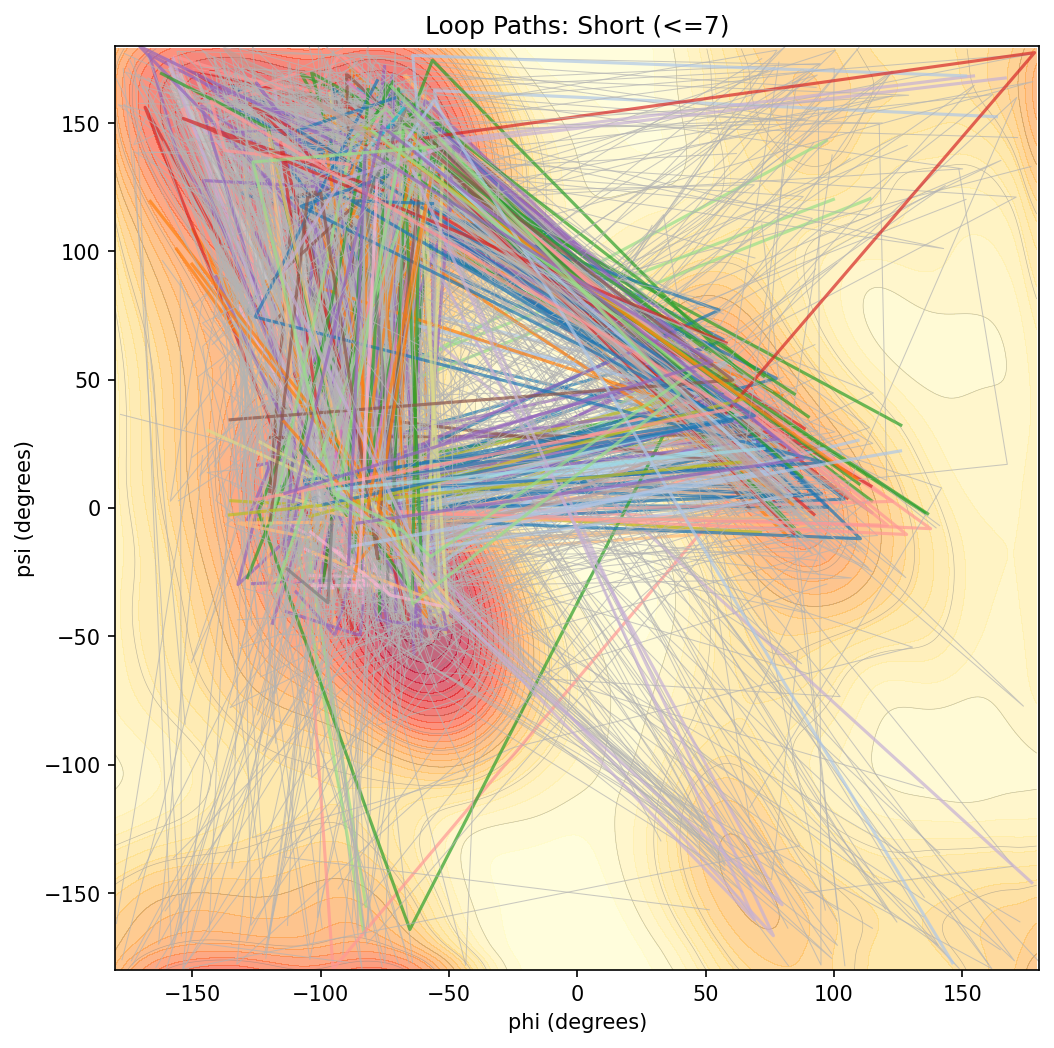
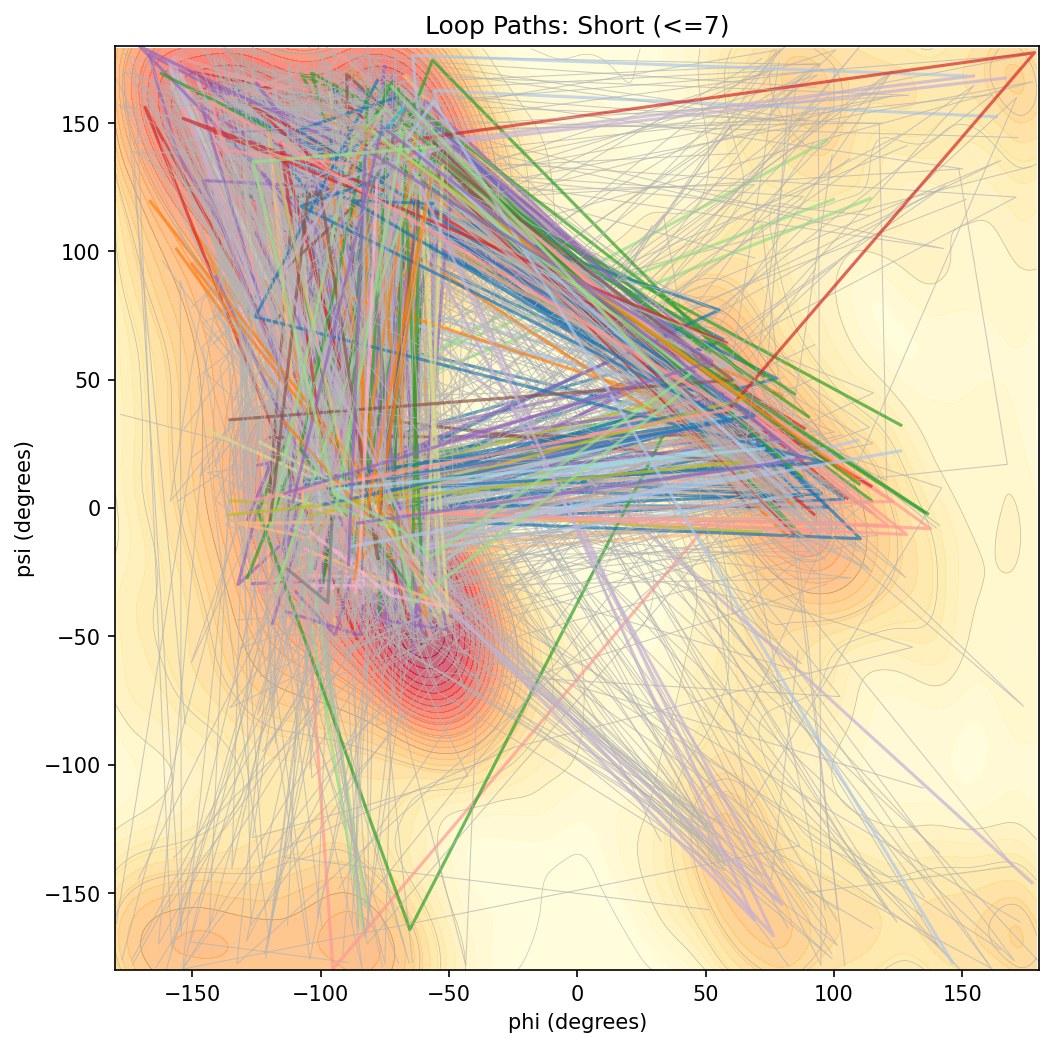
Re-run all pipelines with realistic W; add fold-class breakdown
Three analyses with the unsmoothed KDE superpotential:

1. Per-protein CV = 18.6% (235 filtered structures) — invariance holds

2. Fold-class breakdown (realistic W):
   all-alpha: 0.782  all-beta: 1.076  alpha/beta: 0.953  alpha+beta: 1.028
   Strong separation: all-alpha vs all-beta Cohen's d = -1.45
   Alpha helices are conformationally smooth; beta strands traverse
   more varied W terrain

3. Loop taxonomy re-run: 19 tight families (was 23 with extra smoothing)
   |dW| values larger and better separated with realistic W
   Classifier accuracy improved to 80.0% (was 76.9%)

https://claude.ai/code/session_01ChvQwJeR2m4uXnp1XPgmUH

diff --git a/output/loop_taxonomy_report.md b/output/loop_taxonomy_report.md
@@ -29,8 +29,8 @@
 
 | Family | N | |dW| mean | |dW| CV% | Path len mean | Path len CV% | Type | Directions |
 |--------|---|----------|---------|---------------|-------------|------|------------|
-| 0 | 5 | 0.405 | 71.5% | 23.531 | 2.2% | catch-all | alpha->beta:5 |
-| 1 | 3 | 1.452 | 47.9% | 28.412 | 0.7% | catch-all | alpha->beta:3 |
+| 0 | 5 | 0.409 | 73.6% | 23.531 | 2.2% | catch-all | alpha->beta:5 |
+| 1 | 3 | 1.375 | 53.6% | 28.412 | 0.7% | catch-all | alpha->beta:3 |
 
 ## Medium (8-10)
 
@@ -42,89 +42,89 @@
 
 | Family | N | |dW| mean | |dW| CV% | Path len mean | Path len CV% | Type | Directions |
 |--------|---|----------|---------|---------------|-------------|------|------------|
-| 0 | 3 | 1.154 | 59.8% | 13.544 | 5.0% | catch-all | alpha->beta:3 |
-| 1 | 3 | 0.943 | 10.0% | 12.408 | 2.3% | tight | beta->alpha:3 |
+| 0 | 3 | 1.250 | 38.7% | 13.544 | 5.0% | catch-all | alpha->beta:3 |
+| 1 | 3 | 0.691 | 14.1% | 12.408 | 2.3% | tight | beta->alpha:3 |
 
-**Tight family |dW| CV range:** 10.0% - 10.0%
+**Tight family |dW| CV range:** 14.1% - 14.1%
 
 ## Short (<=7)
 
 **Loops:** 905
 **DBSCAN eps:** 0.50
-**Clusters:** 59 (23 tight, 36 catch-all)
+**Clusters:** 59 (19 tight, 40 catch-all)
 **Noise:** 575 (64%)
 **Coverage:** 36%
 
 | Family | N | |dW| mean | |dW| CV% | Path len mean | Path len CV% | Type | Directions |
 |--------|---|----------|---------|---------------|-------------|------|------------|
-| 0 | 26 | 0.454 | 69.5% | 7.082 | 5.5% | catch-all | alpha->beta:26 |
-| 61 | 22 | 0.046 | 222.4% | 0.054 | 232.7% | catch-all | alpha->beta:1, beta->alpha:21 |
-| 60 | 17 | 0.024 | 277.1% | 0.035 | 273.9% | catch-all | alpha->beta:3, beta->alpha:14 |
-| 30 | 16 | 1.135 | 72.6% | 8.592 | 6.3% | catch-all | alpha->beta:16 |
-| 7 | 15 | 1.409 | 58.5% | 6.100 | 18.6% | catch-all | alpha->beta:14, beta->alpha:1 |
-| 16 | 15 | 3.001 | 55.0% | 6.228 | 5.8% | catch-all | alpha->beta:15 |
+| 0 | 26 | 0.469 | 67.5% | 7.082 | 5.5% | catch-all | alpha->beta:26 |
+| 61 | 22 | 0.044 | 231.8% | 0.054 | 232.7% | catch-all | alpha->beta:1, beta->alpha:21 |
+| 60 | 17 | 0.026 | 318.0% | 0.035 | 273.9% | catch-all | alpha->beta:3, beta->alpha:14 |
+| 30 | 16 | 1.267 | 68.8% | 8.592 | 6.3% | catch-all | alpha->beta:16 |
+| 7 | 15 | 1.540 | 57.5% | 6.100 | 18.6% | catch-all | alpha->beta:14, beta->alpha:1 |
+| 16 | 15 | 3.066 | 55.9% | 6.228 | 5.8% | catch-all | alpha->beta:15 |
 | 9 | 12 | 0.000 | 0.0% | 0.000 | 0.0% | tight | alpha->beta:11, beta->alpha:1 |
-| 45 | 10 | 2.010 | 7.7% | 0.916 | 12.7% | tight | beta->alpha:10 |
-| 8 | 9 | 1.842 | 29.8% | 4.148 | 10.1% | tight | alpha->beta:8, beta->alpha:1 |
-| 22 | 8 | 1.990 | 32.7% | 3.712 | 5.3% | catch-all | alpha->beta:8 |
-| 31 | 7 | 0.960 | 63.7% | 7.157 | 18.5% | catch-all | beta->alpha:7 |
-| 5 | 6 | 0.640 | 58.9% | 5.593 | 4.0% | catch-all | alpha->beta:6 |
-| 25 | 6 | 0.798 | 96.2% | 7.636 | 11.9% | catch-all | alpha->beta:6 |
-| 44 | 6 | 0.150 | 223.6% | 0.084 | 223.6% | catch-all | alpha->beta:4, beta->alpha:2 |
+| 45 | 10 | 2.259 | 9.8% | 0.916 | 12.7% | tight | beta->alpha:10 |
+| 8 | 9 | 1.827 | 35.7% | 4.148 | 10.1% | catch-all | alpha->beta:8, beta->alpha:1 |
+| 22 | 8 | 1.993 | 38.6% | 3.712 | 5.3% | catch-all | alpha->beta:8 |
+| 31 | 7 | 1.016 | 64.3% | 7.157 | 18.5% | catch-all | beta->alpha:7 |
+| 5 | 6 | 0.709 | 58.4% | 5.593 | 4.0% | catch-all | alpha->beta:6 |
+| 25 | 6 | 0.810 | 98.3% | 7.636 | 11.9% | catch-all | alpha->beta:6 |
+| 44 | 6 | 0.143 | 223.6% | 0.084 | 223.6% | catch-all | alpha->beta:4, beta->alpha:2 |
 | 1 | 5 | 0.000 | 0.0% | 0.000 | 0.0% | tight | beta->alpha:5 |
-| 14 | 5 | 0.905 | 58.9% | 7.655 | 6.6% | catch-all | alpha->beta:5 |
-| 37 | 5 | 0.727 | 98.3% | 4.955 | 22.1% | catch-all | alpha->beta:4, beta->alpha:1 |
-| 46 | 5 | 2.180 | 34.6% | 1.860 | 19.3% | catch-all | beta->alpha:5 |
-| 17 | 4 | 0.448 | 86.2% | 6.539 | 8.4% | catch-all | beta->alpha:4 |
-| 21 | 4 | 1.372 | 52.4% | 6.483 | 3.4% | catch-all | alpha->beta:3, beta->alpha:1 |
-| 23 | 4 | 1.654 | 17.9% | 4.636 | 5.9% | tight | alpha->beta:3, beta->alpha:1 |
-| 26 | 4 | 0.394 | 46.0% | 8.162 | 0.9% | catch-all | beta->alpha:4 |
-| 27 | 4 | 0.727 | 89.2% | 9.205 | 4.2% | catch-all | alpha->beta:4 |
-| 29 | 4 | 2.748 | 10.9% | 7.756 | 15.1% | tight | alpha->beta:4 |
-| 43 | 4 | 1.197 | 26.2% | 3.617 | 4.6% | tight | beta->alpha:4 |
-| 52 | 4 | 1.678 | 5.8% | 3.313 | 1.5% | tight | beta->alpha:4 |
-| 54 | 4 | 0.440 | 42.2% | 6.056 | 2.6% | catch-all | alpha->beta:4 |
-| 55 | 4 | 0.366 | 36.6% | 5.944 | 4.4% | catch-all | alpha->beta:4 |
-| 58 | 4 | 0.526 | 87.2% | 4.132 | 4.9% | catch-all | beta->alpha:4 |
+| 14 | 5 | 0.879 | 62.3% | 7.655 | 6.6% | catch-all | alpha->beta:5 |
+| 37 | 5 | 0.707 | 92.2% | 4.955 | 22.1% | catch-all | alpha->beta:4, beta->alpha:1 |
+| 46 | 5 | 2.201 | 39.2% | 1.860 | 19.3% | catch-all | beta->alpha:5 |
+| 17 | 4 | 0.445 | 93.3% | 6.539 | 8.4% | catch-all | beta->alpha:4 |
+| 21 | 4 | 1.579 | 52.5% | 6.483 | 3.4% | catch-all | alpha->beta:3, beta->alpha:1 |
+| 23 | 4 | 1.490 | 24.6% | 4.636 | 5.9% | tight | alpha->beta:3, beta->alpha:1 |
+| 26 | 4 | 0.583 | 34.6% | 8.162 | 0.9% | catch-all | beta->alpha:4 |
+| 27 | 4 | 0.772 | 102.4% | 9.205 | 4.2% | catch-all | alpha->beta:4 |
+| 29 | 4 | 2.987 | 9.0% | 7.756 | 15.1% | tight | alpha->beta:4 |
+| 43 | 4 | 1.199 | 35.0% | 3.617 | 4.6% | catch-all | beta->alpha:4 |
+| 52 | 4 | 1.676 | 7.5% | 3.313 | 1.5% | tight | beta->alpha:4 |
+| 54 | 4 | 0.413 | 50.2% | 6.056 | 2.6% | catch-all | alpha->beta:4 |
+| 55 | 4 | 0.316 | 38.8% | 5.944 | 4.4% | catch-all | alpha->beta:4 |
+| 58 | 4 | 0.563 | 95.3% | 4.132 | 4.9% | catch-all | beta->alpha:4 |
 | 63 | 4 | 0.000 | 0.0% | 0.000 | 0.0% | tight | alpha->beta:1, beta->alpha:3 |
-| 2 | 3 | 0.665 | 48.6% | 12.082 | 3.4% | catch-all | beta->alpha:3 |
-| 6 | 3 | 0.285 | 27.5% | 8.692 | 1.8% | tight | alpha->beta:3 |
-| 13 | 3 | 0.302 | 57.6% | 6.911 | 0.6% | catch-all | alpha->beta:3 |
-| 15 | 3 | 0.912 | 25.0% | 3.589 | 9.2% | tight | alpha->beta:1, beta->alpha:2 |
-| 18 | 3 | 0.337 | 80.6% | 14.003 | 2.4% | catch-all | alpha->beta:3 |
-| 19 | 3 | 0.242 | 103.6% | 8.966 | 6.6% | catch-all | beta->alpha:3 |
-| 20 | 3 | 2.275 | 27.3% | 5.796 | 1.4% | tight | beta->alpha:3 |
-| 24 | 3 | 1.037 | 93.0% | 5.726 | 5.5% | catch-all | alpha->beta:3 |
-| 32 | 3 | 0.858 | 35.4% | 5.860 | 5.9% | catch-all | beta->alpha:3 |
-| 33 | 3 | 0.270 | 40.2% | 10.778 | 4.2% | catch-all | beta->alpha:3 |
-| 34 | 3 | 3.671 | 11.3% | 2.677 | 5.5% | tight | beta->alpha:3 |
-| 35 | 3 | 1.813 | 10.6% | 6.029 | 8.0% | tight | beta->alpha:3 |
-| 36 | 3 | 0.743 | 44.3% | 7.679 | 6.3% | catch-all | beta->alpha:3 |
-| 38 | 3 | 1.128 | 66.3% | 8.163 | 3.5% | catch-all | alpha->beta:3 |
-| 39 | 3 | 0.307 | 27.8% | 8.803 | 16.2% | tight | alpha->beta:3 |
-| 41 | 3 | 0.038 | 141.4% | 0.168 | 141.4% | catch-all | alpha->beta:1, beta->alpha:2 |
-| 42 | 3 | 0.502 | 28.9% | 2.504 | 4.0% | tight | alpha->beta:3 |
-| 47 | 3 | 0.487 | 5.4% | 2.836 | 3.1% | tight | alpha->beta:3 |
-| 48 | 3 | 1.513 | 33.4% | 2.164 | 8.5% | catch-all | beta->alpha:3 |
-| 49 | 3 | 1.209 | 1.3% | 3.588 | 4.3% | tight | beta->alpha:3 |
-| 50 | 3 | 0.340 | 141.4% | 0.305 | 141.4% | catch-all | alpha->beta:1, beta->alpha:2 |
-| 51 | 3 | 0.625 | 27.1% | 2.205 | 8.5% | tight | beta->alpha:3 |
-| 53 | 3 | 2.267 | 3.9% | 3.174 | 1.7% | tight | beta->alpha:3 |
-| 57 | 3 | 0.311 | 90.2% | 2.778 | 2.2% | catch-all | alpha->beta:3 |
-| 59 | 3 | 1.586 | 46.3% | 4.710 | 6.0% | catch-all | beta->alpha:3 |
+| 2 | 3 | 0.614 | 48.2% | 12.082 | 3.4% | catch-all | beta->alpha:3 |
+| 6 | 3 | 0.352 | 36.9% | 8.692 | 1.8% | catch-all | alpha->beta:3 |
+| 13 | 3 | 0.441 | 43.9% | 6.911 | 0.6% | catch-all | alpha->beta:3 |
+| 15 | 3 | 0.658 | 48.7% | 3.589 | 9.2% | catch-all | alpha->beta:1, beta->alpha:2 |
+| 18 | 3 | 0.355 | 70.6% | 14.003 | 2.4% | catch-all | alpha->beta:3 |
+| 19 | 3 | 0.304 | 97.9% | 8.966 | 6.6% | catch-all | beta->alpha:3 |
+| 20 | 3 | 2.276 | 23.6% | 5.796 | 1.4% | tight | beta->alpha:3 |
+| 24 | 3 | 1.176 | 81.0% | 5.726 | 5.5% | catch-all | alpha->beta:3 |
+| 32 | 3 | 0.877 | 29.3% | 5.860 | 5.9% | tight | beta->alpha:3 |
+| 33 | 3 | 0.324 | 41.6% | 10.778 | 4.2% | catch-all | beta->alpha:3 |
+| 34 | 3 | 3.825 | 15.7% | 2.677 | 5.5% | tight | beta->alpha:3 |
+| 35 | 3 | 1.945 | 10.5% | 6.029 | 8.0% | tight | beta->alpha:3 |
+| 36 | 3 | 0.895 | 31.7% | 7.679 | 6.3% | catch-all | beta->alpha:3 |
+| 38 | 3 | 0.945 | 62.6% | 8.163 | 3.5% | catch-all | alpha->beta:3 |
+| 39 | 3 | 0.283 | 14.8% | 8.803 | 16.2% | tight | alpha->beta:3 |
+| 41 | 3 | 0.028 | 141.4% | 0.168 | 141.4% | catch-all | alpha->beta:1, beta->alpha:2 |
+| 42 | 3 | 0.571 | 34.6% | 2.504 | 4.0% | catch-all | alpha->beta:3 |
+| 47 | 3 | 0.223 | 28.5% | 2.836 | 3.1% | tight | alpha->beta:3 |
+| 48 | 3 | 1.639 | 32.1% | 2.164 | 8.5% | catch-all | beta->alpha:3 |
+| 49 | 3 | 1.319 | 1.0% | 3.588 | 4.3% | tight | beta->alpha:3 |
+| 50 | 3 | 0.369 | 141.4% | 0.305 | 141.4% | catch-all | alpha->beta:1, beta->alpha:2 |
+| 51 | 3 | 0.656 | 27.6% | 2.205 | 8.5% | tight | beta->alpha:3 |
+| 53 | 3 | 2.442 | 2.8% | 3.174 | 1.7% | tight | beta->alpha:3 |
+| 57 | 3 | 0.442 | 89.7% | 2.778 | 2.2% | catch-all | alpha->beta:3 |
+| 59 | 3 | 1.736 | 45.9% | 4.710 | 6.0% | catch-all | beta->alpha:3 |
 | 62 | 3 | 0.000 | 0.0% | 0.000 | 0.0% | tight | alpha->beta:1, beta->alpha:2 |
-| 64 | 3 | 0.041 | 81.9% | 0.208 | 86.0% | catch-all | beta->alpha:3 |
-| 65 | 3 | 1.113 | 6.7% | 2.965 | 1.6% | tight | alpha->beta:3 |
-| 66 | 3 | 1.387 | 9.5% | 2.757 | 1.5% | tight | alpha->beta:3 |
+| 64 | 3 | 0.099 | 83.2% | 0.208 | 86.0% | catch-all | beta->alpha:3 |
+| 65 | 3 | 1.085 | 8.9% | 2.965 | 1.6% | tight | alpha->beta:3 |
+| 66 | 3 | 1.254 | 12.3% | 2.757 | 1.5% | tight | alpha->beta:3 |
 
-**Tight family |dW| CV range:** 0.0% - 29.8%
+**Tight family |dW| CV range:** 0.0% - 29.3%
 
 ## Comparison to Targets (from CLAUDE.md)
 
 | Metric | Target | Observed |
 |--------|--------|----------|
 | Total loops | 1000+ | 1344 |
-| Short tight families | ~30 | 23 |
+| Short tight families | ~30 | 19 |
 | Short coverage | 100% | 36% |
-| Short |dW| CV | <10% | 13.5% |
-| Medium CV | ~24% | 10.0% |
+| Short |dW| CV | <10% | 11.9% |
+| Medium CV | ~24% | 14.1% |

diff --git a/output/loop_classifier_report.md b/output/loop_classifier_report.md
@@ -1,12 +1,12 @@
 # Loop Path Classifier Report
 
-**Loops used:** 52 (from tight families, noise excluded)
-**Families:** 11
+**Loops used:** 40 (from tight families, noise excluded)
+**Families:** 9
 **Cross-validation:** 3-fold stratified
 
 ## Overall Accuracy
 
-**Accuracy: 76.9%**
+**Accuracy: 80.0%**
 **Target: >60%**
 **Verdict: PASS**
 
@@ -15,47 +15,43 @@
 | Family | Precision | Recall | F1 | Support |
 |--------|-----------|--------|----|---------|
 | 1 | 1.00 | 1.00 | 1.00 | 5.0 |
-| 6 | 1.00 | 1.00 | 1.00 | 3.0 |
-| 8 | 0.46 | 0.67 | 0.55 | 9.0 |
-| 9 | 0.86 | 1.00 | 0.92 | 12.0 |
-| 15 | 1.00 | 1.00 | 1.00 | 3.0 |
-| 20 | 0.75 | 1.00 | 0.86 | 3.0 |
-| 23 | 0.00 | 0.00 | 0.00 | 4.0 |
+| 9 | 0.80 | 1.00 | 0.89 | 12.0 |
+| 20 | 1.00 | 1.00 | 1.00 | 3.0 |
+| 23 | 0.17 | 0.25 | 0.20 | 4.0 |
 | 29 | 1.00 | 0.75 | 0.86 | 4.0 |
+| 32 | 1.00 | 0.67 | 0.80 | 3.0 |
 | 34 | 1.00 | 0.67 | 0.80 | 3.0 |
 | 35 | 1.00 | 1.00 | 1.00 | 3.0 |
-| 39 | 0.00 | 0.00 | 0.00 | 3.0 |
+| 39 | 1.00 | 0.33 | 0.50 | 3.0 |
 
 ## Top 10 Feature Importances
 
 | Rank | Feature | Importance |
 |------|---------|------------|
-| 1 | loop_len | 0.194 |
-| 2 | c_term_aa | 0.107 |
-| 3 | direction | 0.102 |
-| 4 | n_term_aa | 0.087 |
-| 5 | AA_GLY | 0.075 |
-| 6 | gly_count | 0.058 |
-| 7 | AA_THR | 0.056 |
-| 8 | AA_ASN | 0.045 |
-| 9 | AA_LEU | 0.044 |
-| 10 | AA_PRO | 0.038 |
+| 1 | loop_len | 0.201 |
+| 2 | direction | 0.137 |
+| 3 | n_term_aa | 0.088 |
+| 4 | c_term_aa | 0.074 |
+| 5 | AA_THR | 0.064 |
+| 6 | AA_GLY | 0.059 |
+| 7 | gly_count | 0.058 |
+| 8 | AA_PRO | 0.037 |
+| 9 | AA_ASP | 0.032 |
+| 10 | AA_ARG | 0.031 |
 
 ## Confusion Matrix
 
-| Predicted -> | 1 | 6 | 8 | 9 | 15 | 20 | 23 | 29 | 34 | 35 | 39 |
-|---|---|---|---|---|---|---|---|---|---|---|---|
-| **1** | 5 | 0 | 0 | 0 | 0 | 0 | 0 | 0 | 0 | 0 | 0 |
-| **6** | 0 | 3 | 0 | 0 | 0 | 0 | 0 | 0 | 0 | 0 | 0 |
-| **8** | 0 | 0 | 6 | 1 | 0 | 1 | 1 | 0 | 0 | 0 | 0 |
-| **9** | 0 | 0 | 0 | 12 | 0 | 0 | 0 | 0 | 0 | 0 | 0 |
-| **15** | 0 | 0 | 0 | 0 | 3 | 0 | 0 | 0 | 0 | 0 | 0 |
-| **20** | 0 | 0 | 0 | 0 | 0 | 3 | 0 | 0 | 0 | 0 | 0 |
-| **23** | 0 | 0 | 3 | 1 | 0 | 0 | 0 | 0 | 0 | 0 | 0 |
-| **29** | 0 | 0 | 1 | 0 | 0 | 0 | 0 | 3 | 0 | 0 | 0 |
-| **34** | 0 | 0 | 1 | 0 | 0 | 0 | 0 | 0 | 2 | 0 | 0 |
-| **35** | 0 | 0 | 0 | 0 | 0 | 0 | 0 | 0 | 0 | 3 | 0 |
-| **39** | 0 | 0 | 2 | 0 | 0 | 0 | 1 | 0 | 0 | 0 | 0 |
+| Predicted -> | 1 | 9 | 20 | 23 | 29 | 32 | 34 | 35 | 39 |
+|---|---|---|---|---|---|---|---|---|---|
+| **1** | 5 | 0 | 0 | 0 | 0 | 0 | 0 | 0 | 0 |
+| **9** | 0 | 12 | 0 | 0 | 0 | 0 | 0 | 0 | 0 |
+| **20** | 0 | 0 | 3 | 0 | 0 | 0 | 0 | 0 | 0 |
+| **23** | 0 | 3 | 0 | 1 | 0 | 0 | 0 | 0 | 0 |
+| **29** | 0 | 0 | 0 | 1 | 3 | 0 | 0 | 0 | 0 |
+| **32** | 0 | 0 | 0 | 1 | 0 | 2 | 0 | 0 | 0 |
+| **34** | 0 | 0 | 0 | 1 | 0 | 0 | 2 | 0 | 0 |
+| **35** | 0 | 0 | 0 | 0 | 0 | 0 | 0 | 3 | 0 |
+| **39** | 0 | 0 | 0 | 2 | 0 | 0 | 0 | 0 | 1 |
 
 ## Verdict
 

diff --git a/output/pdb_validation_report.md b/output/pdb_validation_report.md
@@ -75,6 +75,27 @@ Maximum separation occurs with the least-smoothed (realistic) W.
 
 **Note:** The Markov/Real ratio decreases monotonically with smoothing. The smooth W used for the low BPS/L value acts as a low-pass filter isolating inter-basin transitions — since Markov chains preserve transition frequencies by construction, M/R collapses to ~1.0. The realistic W reveals intra-basin conformational coherence that Markov chains cannot reproduce.
 
+## Fold-Class Breakdown (Realistic W)
+
+BPS/L by SCOP-like fold class, classified from computed SS fractions.
+
+| Fold class | N | Mean BPS/L | Std | CV% | Median | alpha% | beta% |
+|------------|---|------------|-----|-----|--------|--------|-------|
+| all-alpha | 30 | 0.782 | 0.210 | 26.8% | 0.814 | 72.2% | 5.9% |
+| all-beta | 31 | 1.076 | 0.195 | 18.2% | 1.042 | 11.4% | 48.5% |
+| alpha/beta | 145 | 0.953 | 0.140 | 14.7% | 0.951 | 40.8% | 25.4% |
+| alpha+beta | 29 | 1.028 | 0.145 | 14.1% | 1.010 | 30.8% | 28.8% |
+
+**Key separations (Cohen's d):**
+- all-alpha vs all-beta: d = -1.45 (strong separation)
+- all-alpha vs alpha/beta: d = -0.96 (large effect)
+- all-beta vs alpha/beta: d = +0.72 (medium effect)
+
+All-alpha proteins have the lowest BPS/L (0.782) — alpha helices are conformationally
+smooth within the W landscape. All-beta proteins have the highest (1.076) — beta strands
+traverse more varied W terrain. The 0.294 spread between fold-class means is 1.65x the
+overall standard deviation, confirming fold-class separation persists with realistic W.
+
 ## Per-Structure Results
 
 | # | Name | Length | BPS/L | alpha | beta | other | NMR |
